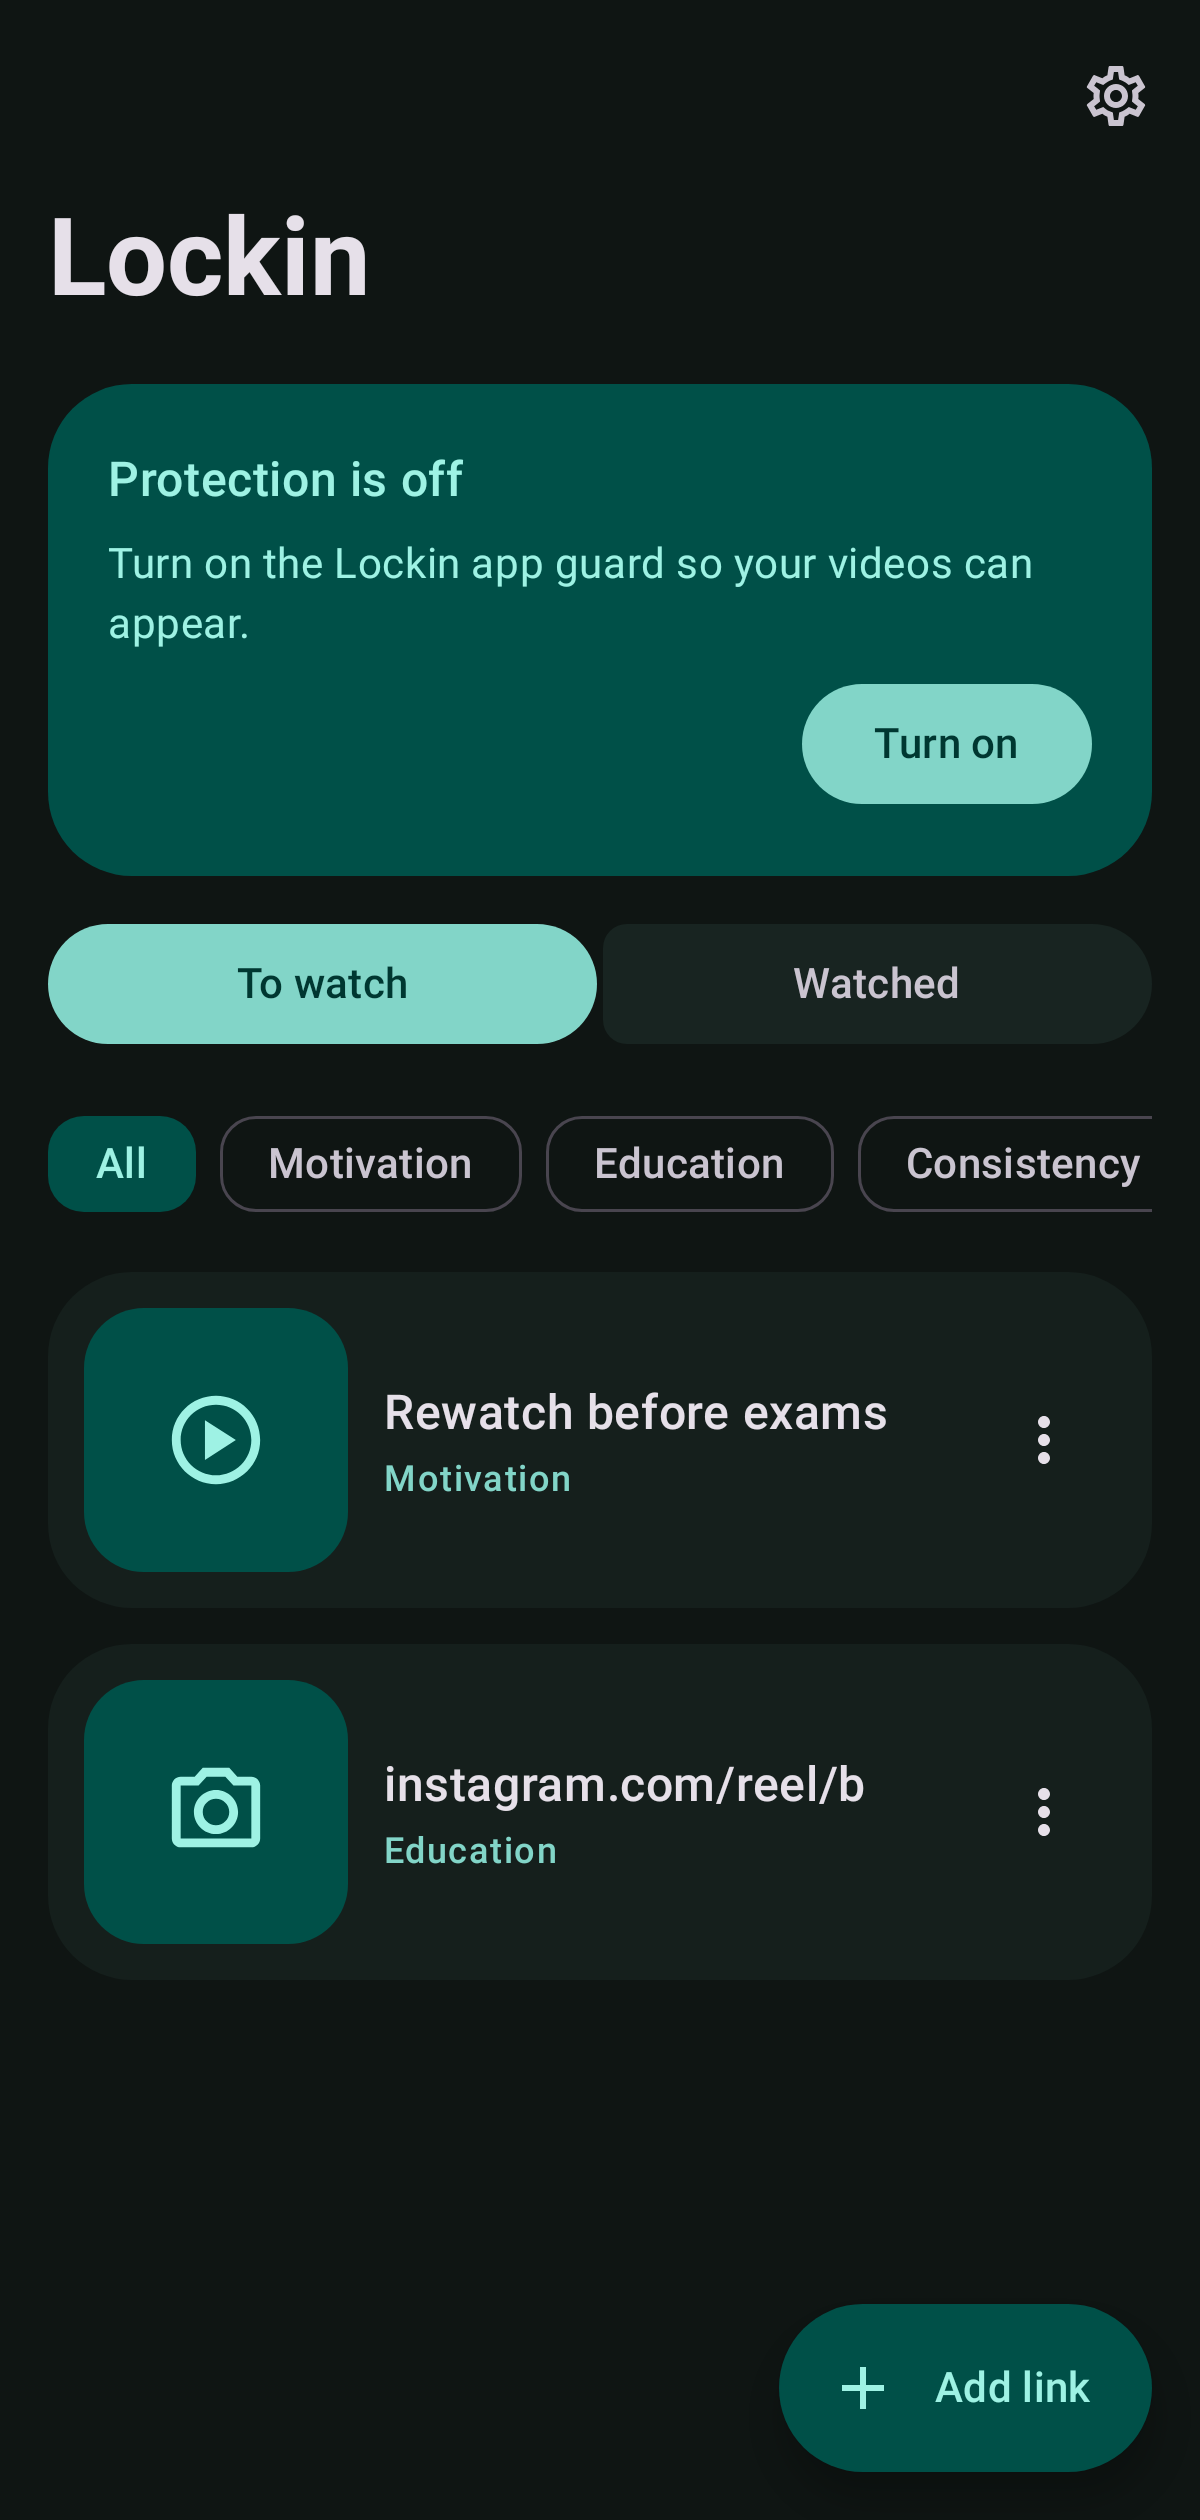
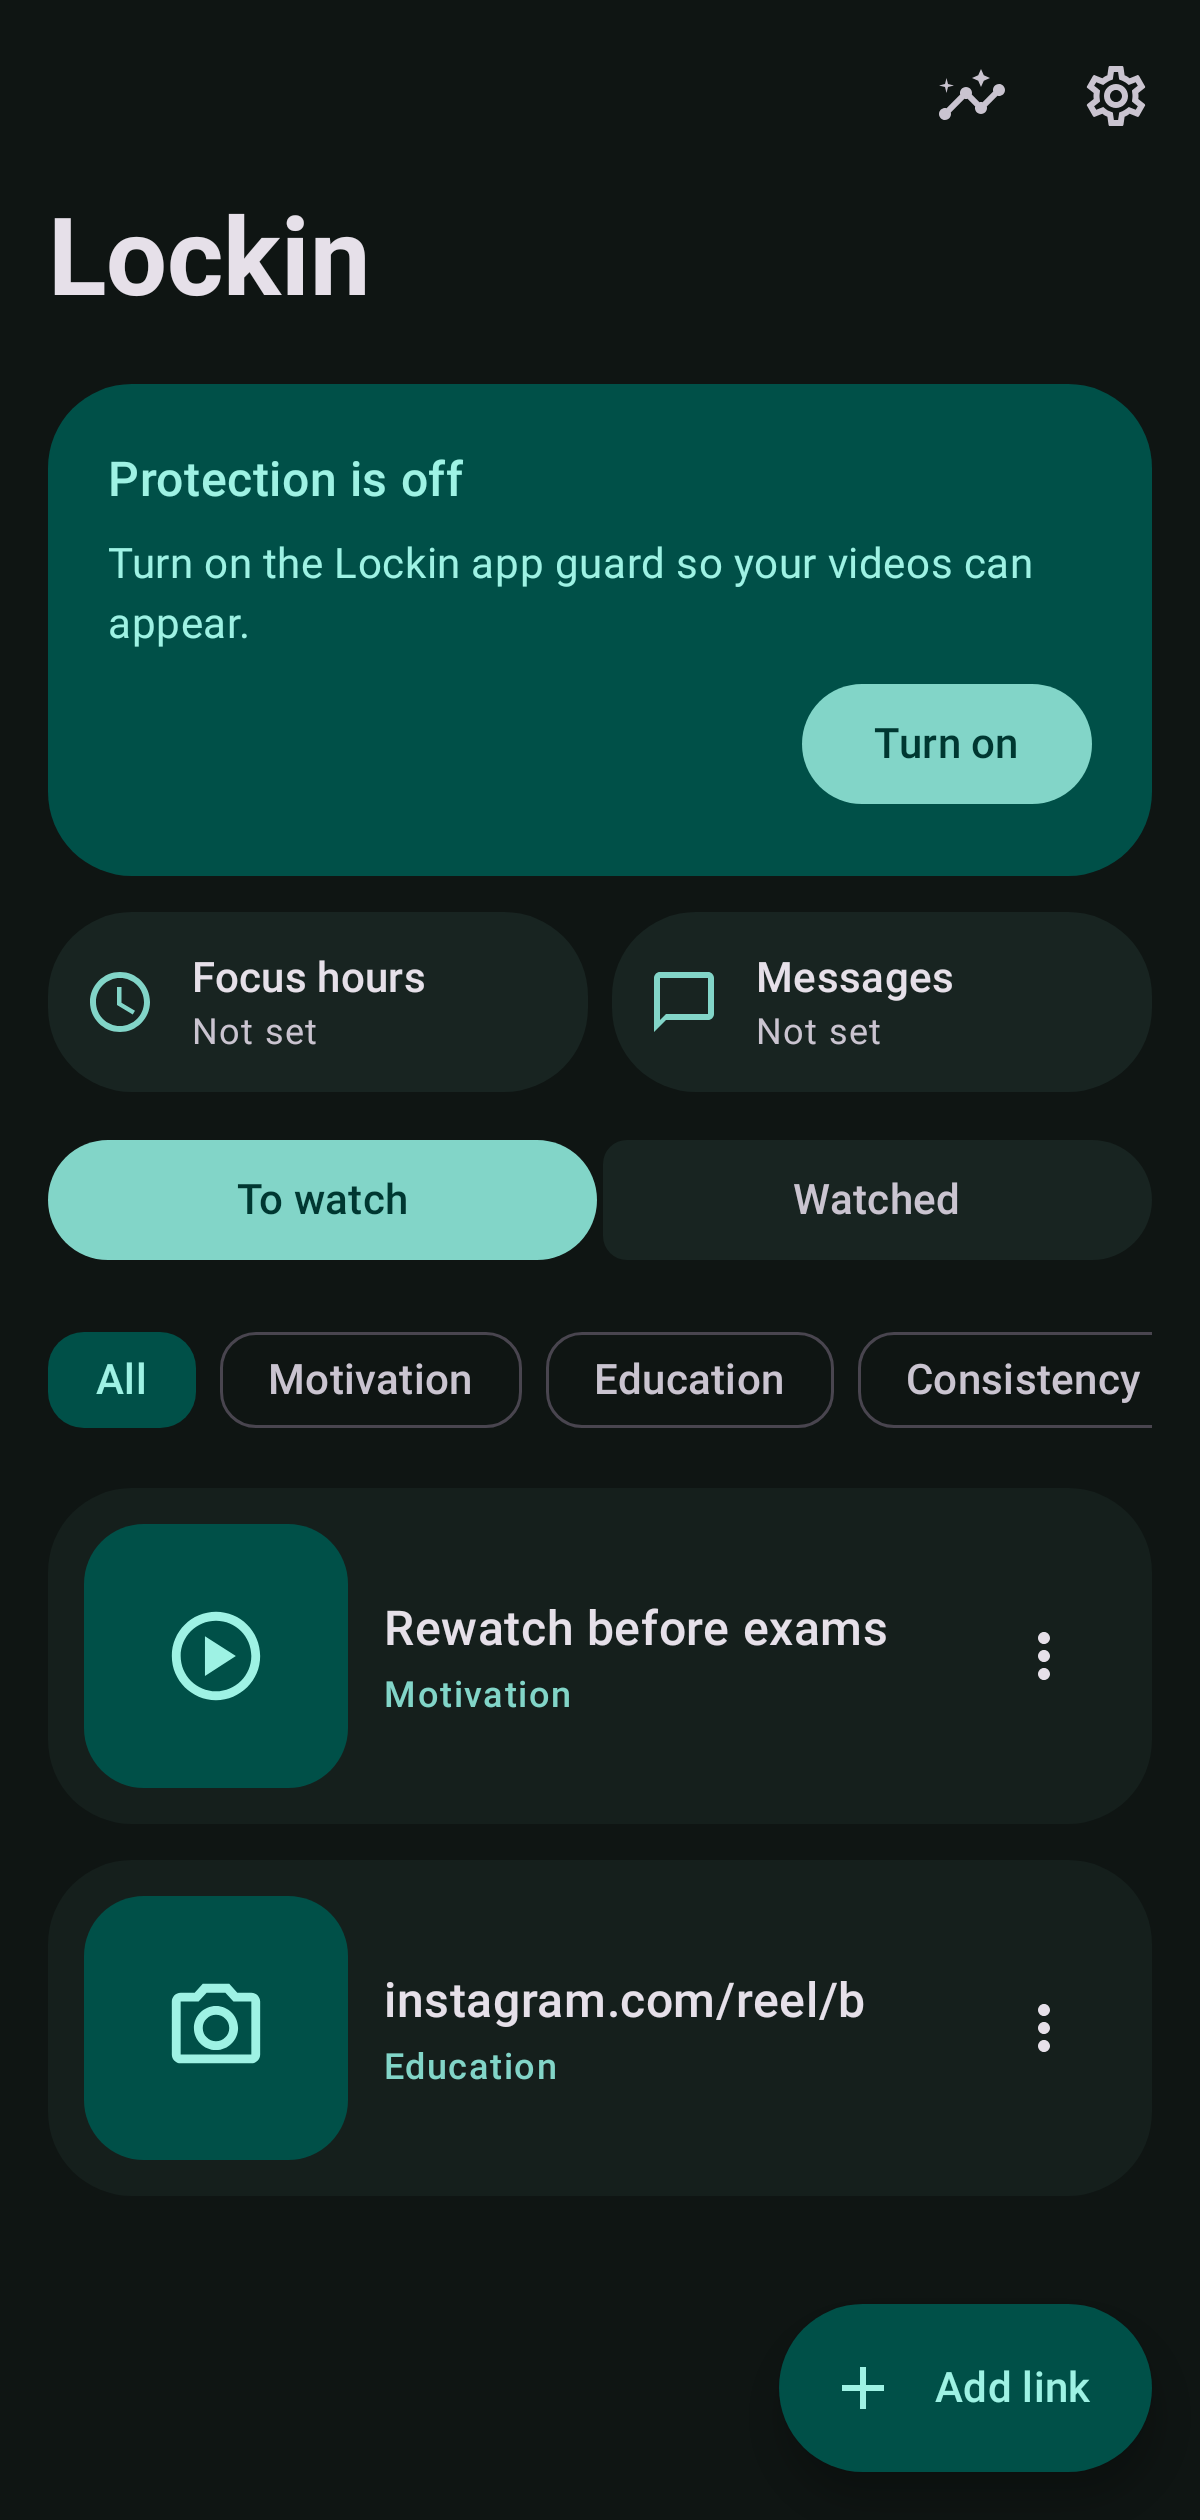
feat(home): move focus hours and messages to the home screen

diff --git a/app/src/main/java/com/lockin/app/feature/library/LibraryScreen.kt b/app/src/main/java/com/lockin/app/feature/library/LibraryScreen.kt
@@ -24,10 +24,12 @@ import androidx.compose.material.icons.outlined.Add
 import androidx.compose.material.icons.outlined.CheckCircle
 import androidx.compose.material.icons.outlined.DeleteOutline
 import androidx.compose.material.icons.outlined.Bookmarks
+import androidx.compose.material.icons.outlined.ChatBubbleOutline
 import androidx.compose.material.icons.outlined.Edit
 import androidx.compose.material.icons.outlined.Insights
 import androidx.compose.material.icons.outlined.MoreVert
 import androidx.compose.material.icons.outlined.Replay
+import androidx.compose.material.icons.outlined.Schedule
 import androidx.compose.material.icons.outlined.Settings
 import androidx.compose.material3.Card
 import androidx.compose.material3.CardDefaults
@@ -49,6 +51,7 @@ import androidx.compose.material3.SnackbarHostState
 import androidx.compose.material3.SnackbarResult
 import androidx.compose.material3.SwipeToDismissBox
 import androidx.compose.material3.SwipeToDismissBoxValue
+import androidx.compose.material3.Surface
 import androidx.compose.material3.Text
 import androidx.compose.material3.TopAppBarDefaults
 import androidx.compose.material3.rememberSwipeToDismissBoxState
@@ -65,6 +68,8 @@ import androidx.compose.ui.input.nestedscroll.nestedScroll
 import androidx.compose.ui.hapticfeedback.HapticFeedbackType
 import androidx.compose.ui.platform.LocalContext
 import androidx.compose.ui.platform.LocalHapticFeedback
+import androidx.compose.ui.graphics.vector.ImageVector
+import androidx.compose.ui.res.pluralStringResource
 import androidx.compose.ui.res.stringResource
 import androidx.compose.ui.text.font.FontWeight
 import androidx.compose.ui.text.style.TextOverflow
@@ -88,12 +93,71 @@ import kotlinx.coroutines.launch
 
 private enum class LibraryBanner { GUARD_OFF, NO_APPS }
 
+@Composable
+private fun Shortcuts(scheduleCount: Int, messageCount: Int, onFocus: () -> Unit, onMessages: () -> Unit) {
+    Row(horizontalArrangement = Arrangement.spacedBy(8.dp)) {
+        Shortcut(
+            icon = Icons.Outlined.Schedule,
+            title = stringResource(R.string.library_focus),
+            count = scheduleCount,
+            countLabel = pluralStringResource(R.plurals.settings_schedule_count, scheduleCount, scheduleCount),
+            onClick = onFocus,
+            modifier = Modifier.weight(1f),
+        )
+        Shortcut(
+            icon = Icons.Outlined.ChatBubbleOutline,
+            title = stringResource(R.string.library_messages),
+            count = messageCount,
+            countLabel = pluralStringResource(R.plurals.settings_message_count, messageCount, messageCount),
+            onClick = onMessages,
+            modifier = Modifier.weight(1f),
+        )
+    }
+}
+
+@Composable
+private fun Shortcut(
+    icon: ImageVector,
+    title: String,
+    count: Int,
+    countLabel: String,
+    onClick: () -> Unit,
+    modifier: Modifier = Modifier,
+) {
+    Surface(
+        onClick = onClick,
+        modifier = modifier,
+        shape = MaterialTheme.shapes.large,
+        color = MaterialTheme.colorScheme.surfaceContainer,
+    ) {
+        Row(
+            Modifier.padding(horizontal = 12.dp, vertical = 12.dp),
+            horizontalArrangement = Arrangement.spacedBy(12.dp),
+            verticalAlignment = Alignment.CenterVertically,
+        ) {
+            Icon(icon, null, tint = MaterialTheme.colorScheme.primary)
+            Column {
+                Text(title, style = MaterialTheme.typography.titleSmall, maxLines = 1, overflow = TextOverflow.Ellipsis)
+                Text(
+                    if (count == 0) stringResource(R.string.library_not_set) else countLabel,
+                    style = MaterialTheme.typography.bodySmall,
+                    color = MaterialTheme.colorScheme.onSurfaceVariant,
+                    maxLines = 1,
+                    overflow = TextOverflow.Ellipsis,
+                )
+            }
+        }
+    }
+}
+
 @OptIn(ExperimentalMaterial3Api::class, ExperimentalMaterial3ExpressiveApi::class)
 @Composable
 fun LibraryScreen(
     onOpenSettings: () -> Unit,
     onChooseApps: () -> Unit,
     onOpenStats: () -> Unit,
+    onOpenFocus: () -> Unit,
+    onOpenMessages: () -> Unit,
     viewModel: LibraryViewModel = hiltViewModel(),
     captureViewModel: CaptureViewModel = hiltViewModel(),
 ) {
@@ -199,6 +263,7 @@ fun LibraryScreen(
                     }
                 }
             }
+            item { Shortcuts(state.scheduleCount, state.messageCount, onOpenFocus, onOpenMessages) }
             item {
                 ConnectedChoice(
                     options = LibraryTab.entries,

diff --git a/app/src/main/java/com/lockin/app/feature/settings/SettingsScreen.kt b/app/src/main/java/com/lockin/app/feature/settings/SettingsScreen.kt
@@ -72,8 +72,6 @@ fun SettingsScreen(
     onGuardedApps: () -> Unit,
     onPrivacy: () -> Unit,
     onLicenses: () -> Unit,
-    onFocusSchedules: () -> Unit,
-    onMessages: () -> Unit,
     viewModel: SettingsViewModel = hiltViewModel(),
     backupViewModel: BackupViewModel = hiltViewModel(),
 ) {
@@ -118,22 +116,6 @@ fun SettingsScreen(
                     Text(pluralStringResource(R.plurals.settings_guarded_count, count, count))
                 },
                 modifier = Modifier.clickable(onClick = onGuardedApps),
-            )
-            ListItem(
-                headlineContent = { Text(stringResource(R.string.focus_title)) },
-                supportingContent = {
-                    val count = settings.focusSchedules.size
-                    Text(pluralStringResource(R.plurals.settings_schedule_count, count, count))
-                },
-                modifier = Modifier.clickable(onClick = onFocusSchedules),
-            )
-            ListItem(
-                headlineContent = { Text(stringResource(R.string.messages_title)) },
-                supportingContent = {
-                    val count = settings.personalMessages.size
-                    Text(pluralStringResource(R.plurals.settings_message_count, count, count))
-                },
-                modifier = Modifier.clickable(onClick = onMessages),
             )
             SwitchRow(
                 title = stringResource(R.string.settings_ask_why),

diff --git a/app/src/main/java/com/lockin/app/LockinNavHost.kt b/app/src/main/java/com/lockin/app/LockinNavHost.kt
@@ -49,6 +49,8 @@ fun LockinNavHost() {
                 onOpenSettings = { navController.navigate(SettingsRoute) },
                 onChooseApps = { navController.navigate(GuardedAppsRoute) },
                 onOpenStats = { navController.navigate(StatsRoute) },
+                onOpenFocus = { navController.navigate(FocusRoute) },
+                onOpenMessages = { navController.navigate(MessagesRoute) },
             )
         }
         composable<SettingsRoute> {
@@ -57,8 +59,6 @@ fun LockinNavHost() {
                 onGuardedApps = { navController.navigate(GuardedAppsRoute) },
                 onPrivacy = { navController.navigate(PrivacyRoute) },
                 onLicenses = { navController.navigate(LicensesRoute) },
-                onFocusSchedules = { navController.navigate(FocusRoute) },
-                onMessages = { navController.navigate(MessagesRoute) },
             )
         }
         composable<GuardedAppsRoute> { GuardedAppsScreen(onBack = back) }

diff --git a/app/src/main/java/com/lockin/app/feature/library/LibraryViewModel.kt b/app/src/main/java/com/lockin/app/feature/library/LibraryViewModel.kt
@@ -24,6 +24,8 @@ data class LibraryState(
     val filter: Category? = null,
     val links: List<SavedLink> = emptyList(),
     val noAppsGuarded: Boolean = false,
+    val scheduleCount: Int = 0,
+    val messageCount: Int = 0,
     val isLoading: Boolean = true,
 )
 
@@ -45,6 +47,8 @@ class LibraryViewModel @Inject constructor(
             filter = filter,
             links = inTab.filter { filter == null || it.category == filter },
             noAppsGuarded = guard.guardedPackages.isEmpty(),
+            scheduleCount = guard.focusSchedules.size,
+            messageCount = guard.personalMessages.size,
             isLoading = false,
         )
     }.flowOn(Dispatchers.Default)
